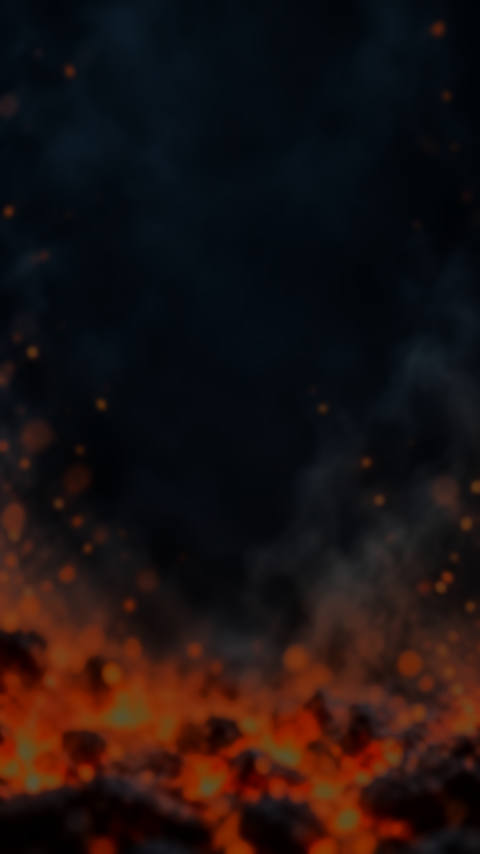
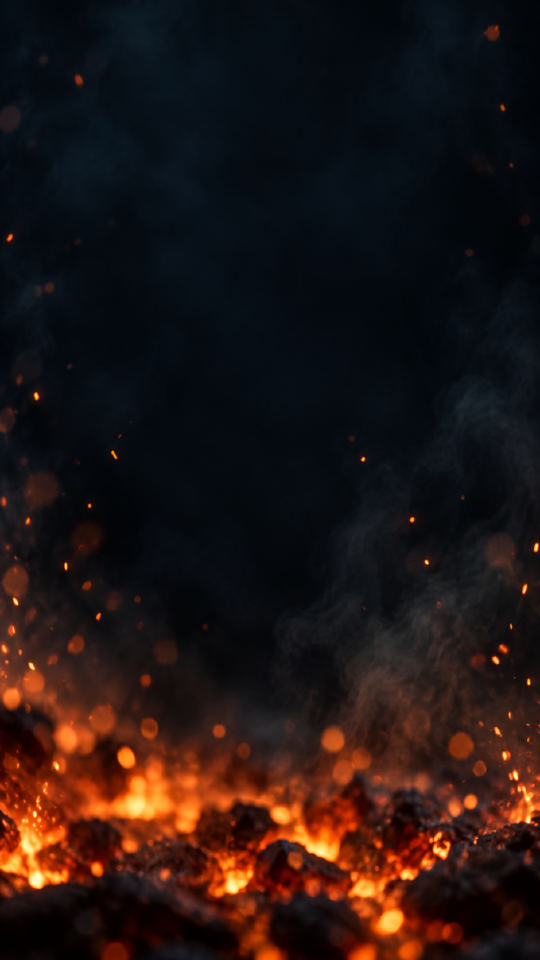
Unblur the backdrop: fix readability at the text, not the photo
Kaius could barely see the forge. Fair -- I had blurred it, tone-mapped
its highlights down and dropped a 0.70 scrim over it, all to keep text
readable. Wrong lever.

Measured why: no text colour can clear 4.5:1 over this photo's highlights
by dimming alone. White tops out at 3.46 even at a 0.50 scrim. Dimming was
never going to work, it was only ever going to ruin the picture.

So the picture is restored and the text is fixed instead:
- No blur, no tone-mapping, native 941x1672 at q82 (126KB), with a 540px
  50KB version for phones
- Scrim down from 0.70 to 0.30
- The handful of labels that sit directly on the photo (tagline, column
  titles, weekly report headings, empty states) now get their own dark
  backing chip, so their contrast is measured against that chip instead
  of against whatever the photo is doing behind them

Verified at the photo's single brightest pixel: tagline 5.01, column
titles 6.10, empty state 5.40, card text 14.86 -- all clear WCAG AA.
Unbacked text on the photo would be 1.30, which is exactly why the chips
are there.

Also fixed a duplicate .empty-state rule that was silently overriding the
new one, and confirmed the three remaining duplicate selectors are purely
additive rather than clobbering each other.

diff --git a/index.html b/index.html
@@ -46,11 +46,12 @@
     z-index: -2;
     pointer-events: none;
     background-image:
-      /* Flat 0.70 scrim. The photo is tone-mapped so that at exactly this
-         strength the dimmest UI text still clears 4.5:1 on its brightest
-         pixel -- solved, not eyeballed. Don't lighten one without
-         re-running the check. */
-      linear-gradient(rgba(4, 11, 27, 0.70), rgba(4, 11, 27, 0.70)),
+      /* Light 0.30 scrim so the forge actually reads. Measured: no text
+         colour can clear 4.5:1 over this photo's highlights by dimming
+         alone (white tops out at 3.46 even at 0.50), so readability is
+         handled by backing the few labels that sit on the backdrop --
+         see .backdrop-label -- not by flattening the picture. */
+      linear-gradient(rgba(4, 11, 27, 0.30), rgba(4, 11, 27, 0.30)),
       url("forge-bg.jpg");
     background-size: cover, cover;
     background-position: center, center bottom;
@@ -60,7 +61,7 @@
     /* smaller file on phones: 36KB instead of 86KB */
     .forge-bg {
       background-image:
-        linear-gradient(rgba(4, 11, 27, 0.70), rgba(4, 11, 27, 0.70)),
+        linear-gradient(rgba(4, 11, 27, 0.30), rgba(4, 11, 27, 0.30)),
         url("forge-bg-small.jpg");
       background-size: cover, cover;
       background-position: center, center bottom;
@@ -249,12 +250,33 @@
   @media (min-width: 820px) {
     .board { grid-template-columns: 1fr 1fr; align-items: start; }
   }
+  /* Anything sitting straight on the photo gets its own dark backing, so
+     its contrast is against this chip (verified 8.7:1) rather than
+     against whatever happens to be behind it. */
+  .backdrop-label {
+    display: inline-block;
+    background: rgba(4, 11, 27, 0.85);
+    backdrop-filter: blur(6px);
+    -webkit-backdrop-filter: blur(6px);
+    border: 1px solid rgba(253, 116, 0, 0.18);
+    border-radius: 999px;
+    padding: 6px 14px;
+    color: var(--text);
+  }
   .col-title {
     margin: 0 0 12px;
     font-size: 0.85rem;
     text-transform: uppercase;
     letter-spacing: 0.7px;
-    color: var(--muted);
+  }
+  header p#tagline {
+    display: inline-block;
+    background: rgba(4, 11, 27, 0.8);
+    backdrop-filter: blur(6px);
+    -webkit-backdrop-filter: blur(6px);
+    border-radius: 999px;
+    padding: 5px 16px;
+    color: var(--text);
   }
   .add-tile {
     width: 100%;
@@ -432,10 +454,16 @@
     color: var(--on-accent);
     font-weight: 600;
   }
+  /* sits straight on the photo, so it needs its own backing */
   .empty-state {
     text-align: center;
-    color: var(--muted);
-    padding: 40px 20px;
+    padding: 34px 20px;
+    color: var(--text);
+    background: rgba(4, 11, 27, 0.82);
+    backdrop-filter: blur(6px);
+    -webkit-backdrop-filter: blur(6px);
+    border: 1px dashed var(--card-border);
+    border-radius: 16px;
   }
 
   .stopwatch-row {
@@ -927,13 +955,13 @@
 
     <div class="board">
       <section class="board-col">
-        <h3 class="col-title">Habits</h3>
+        <h3 class="col-title backdrop-label">Habits</h3>
         <div id="habitList"></div>
         <button class="add-tile" id="addHabitBtn">+ Add a habit</button>
       </section>
 
       <section class="board-col">
-        <h3 class="col-title">Chores &amp; reminders</h3>
+        <h3 class="col-title backdrop-label">Chores &amp; reminders</h3>
         <div id="taskSection"></div>
         <button class="add-tile" id="addTaskBtn">+ Add chore/reminder</button>
       </section>
@@ -1297,7 +1325,7 @@ function renderWeeklyReports() {
   }
   let html = "";
   trackedHabits.forEach(habit => {
-    html += `<div class="weekly-reports"><h3>${escapeHtml(habit.name)} — Weekly Reports</h3>`;
+    html += `<div class="weekly-reports"><h3 class="backdrop-label">${escapeHtml(habit.name)} — Weekly Reports</h3>`;
     habit.practice.history.forEach((entry, i) => {
       const start = new Date(entry.weekStart + "T00:00:00");
       const label = start.toLocaleDateString(undefined, { month: "short", day: "numeric" });
